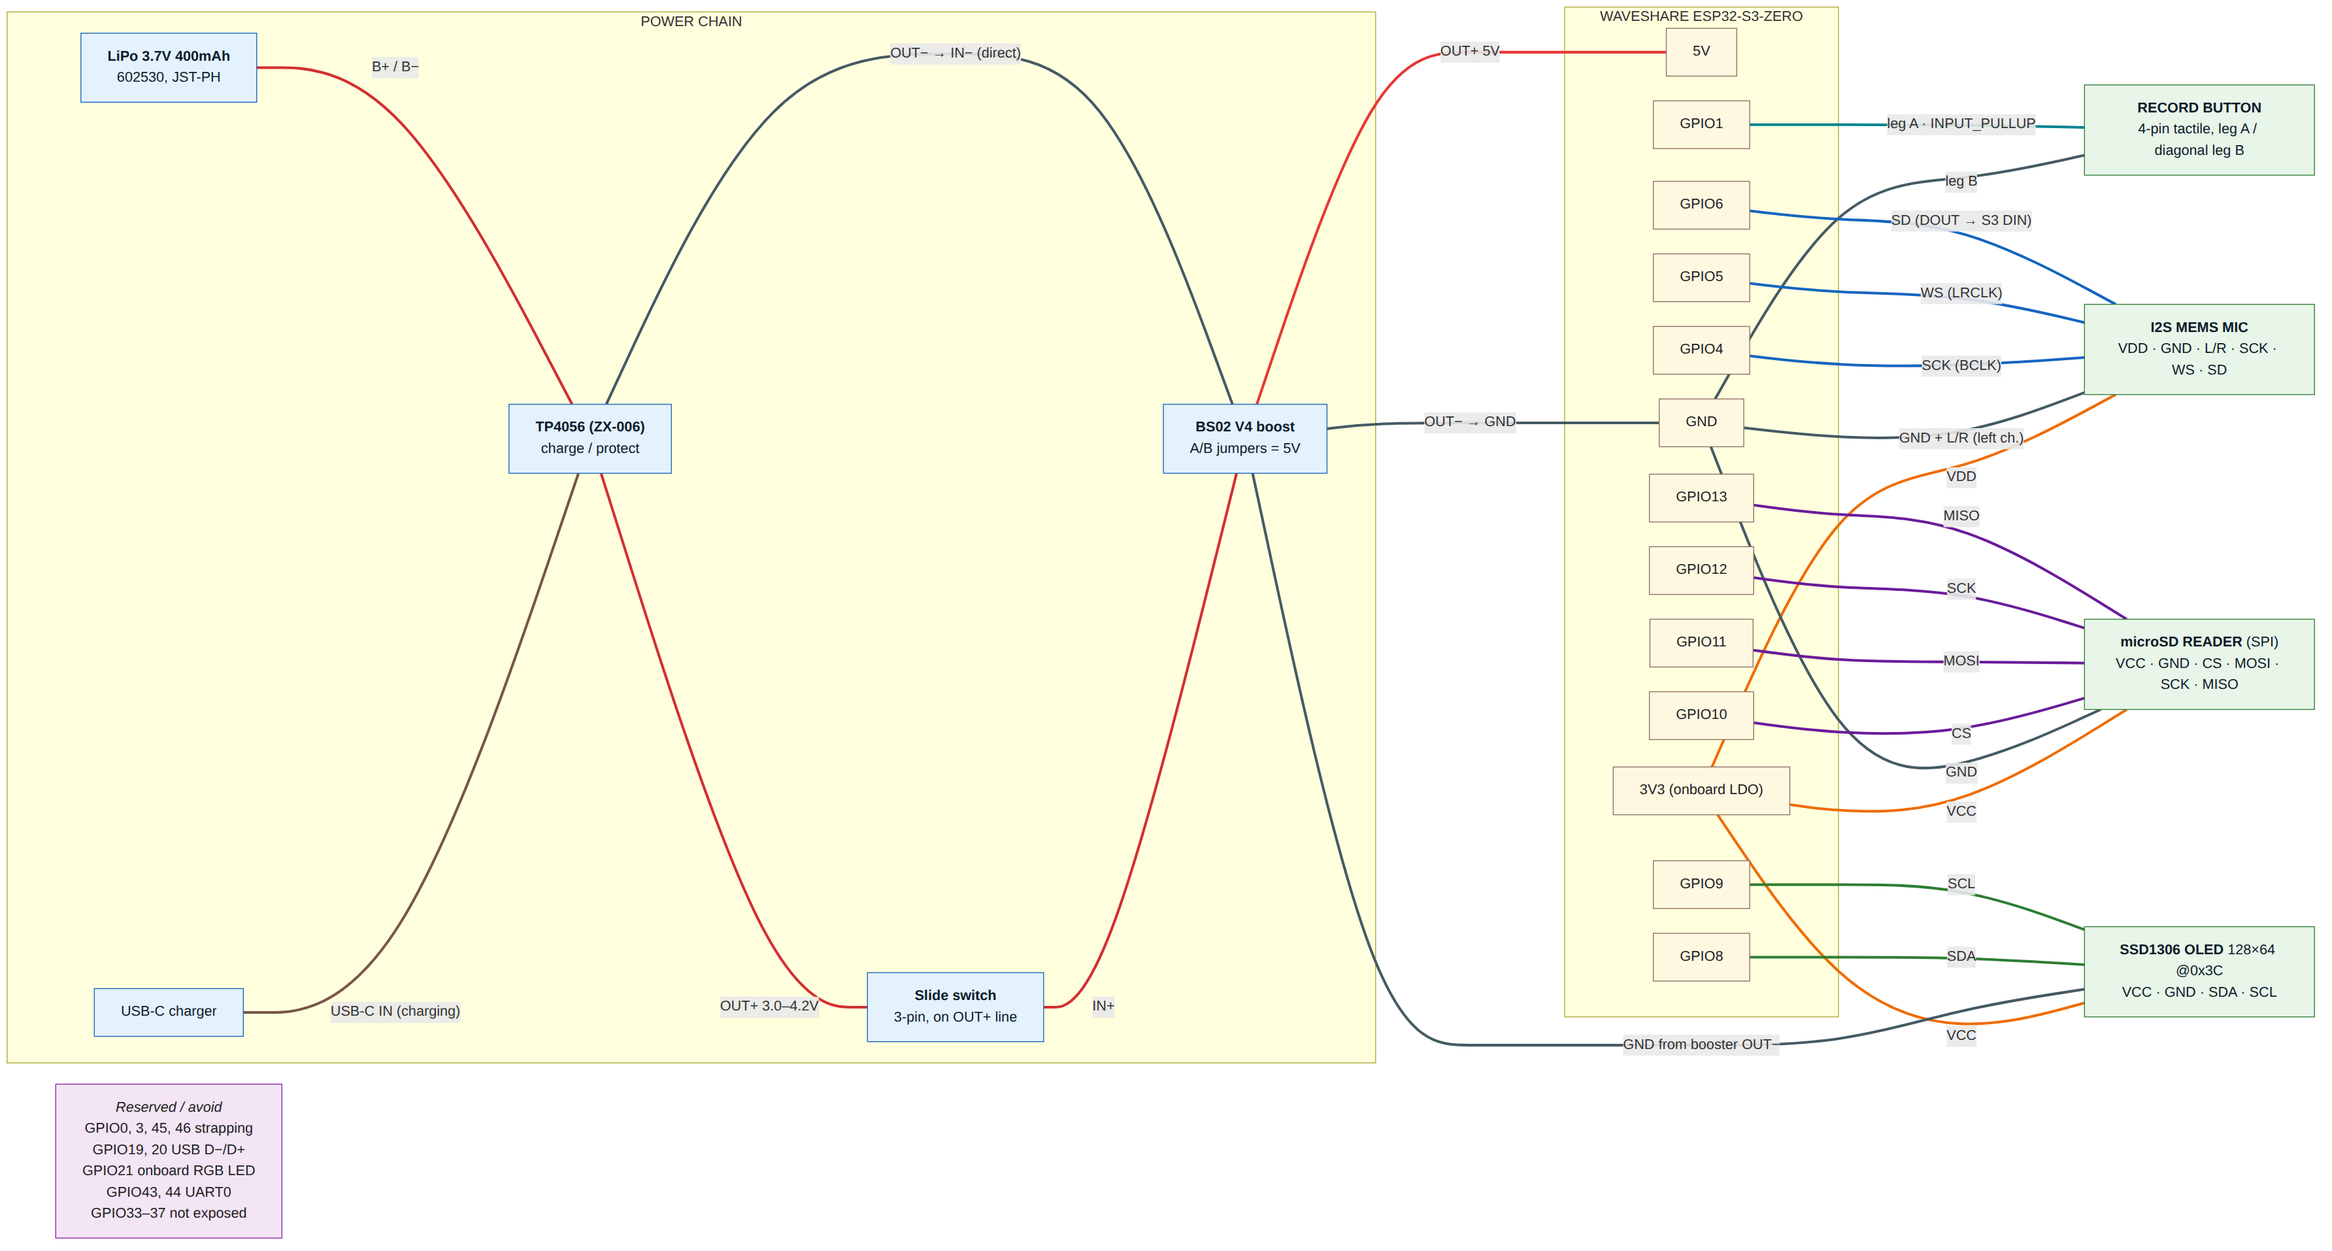
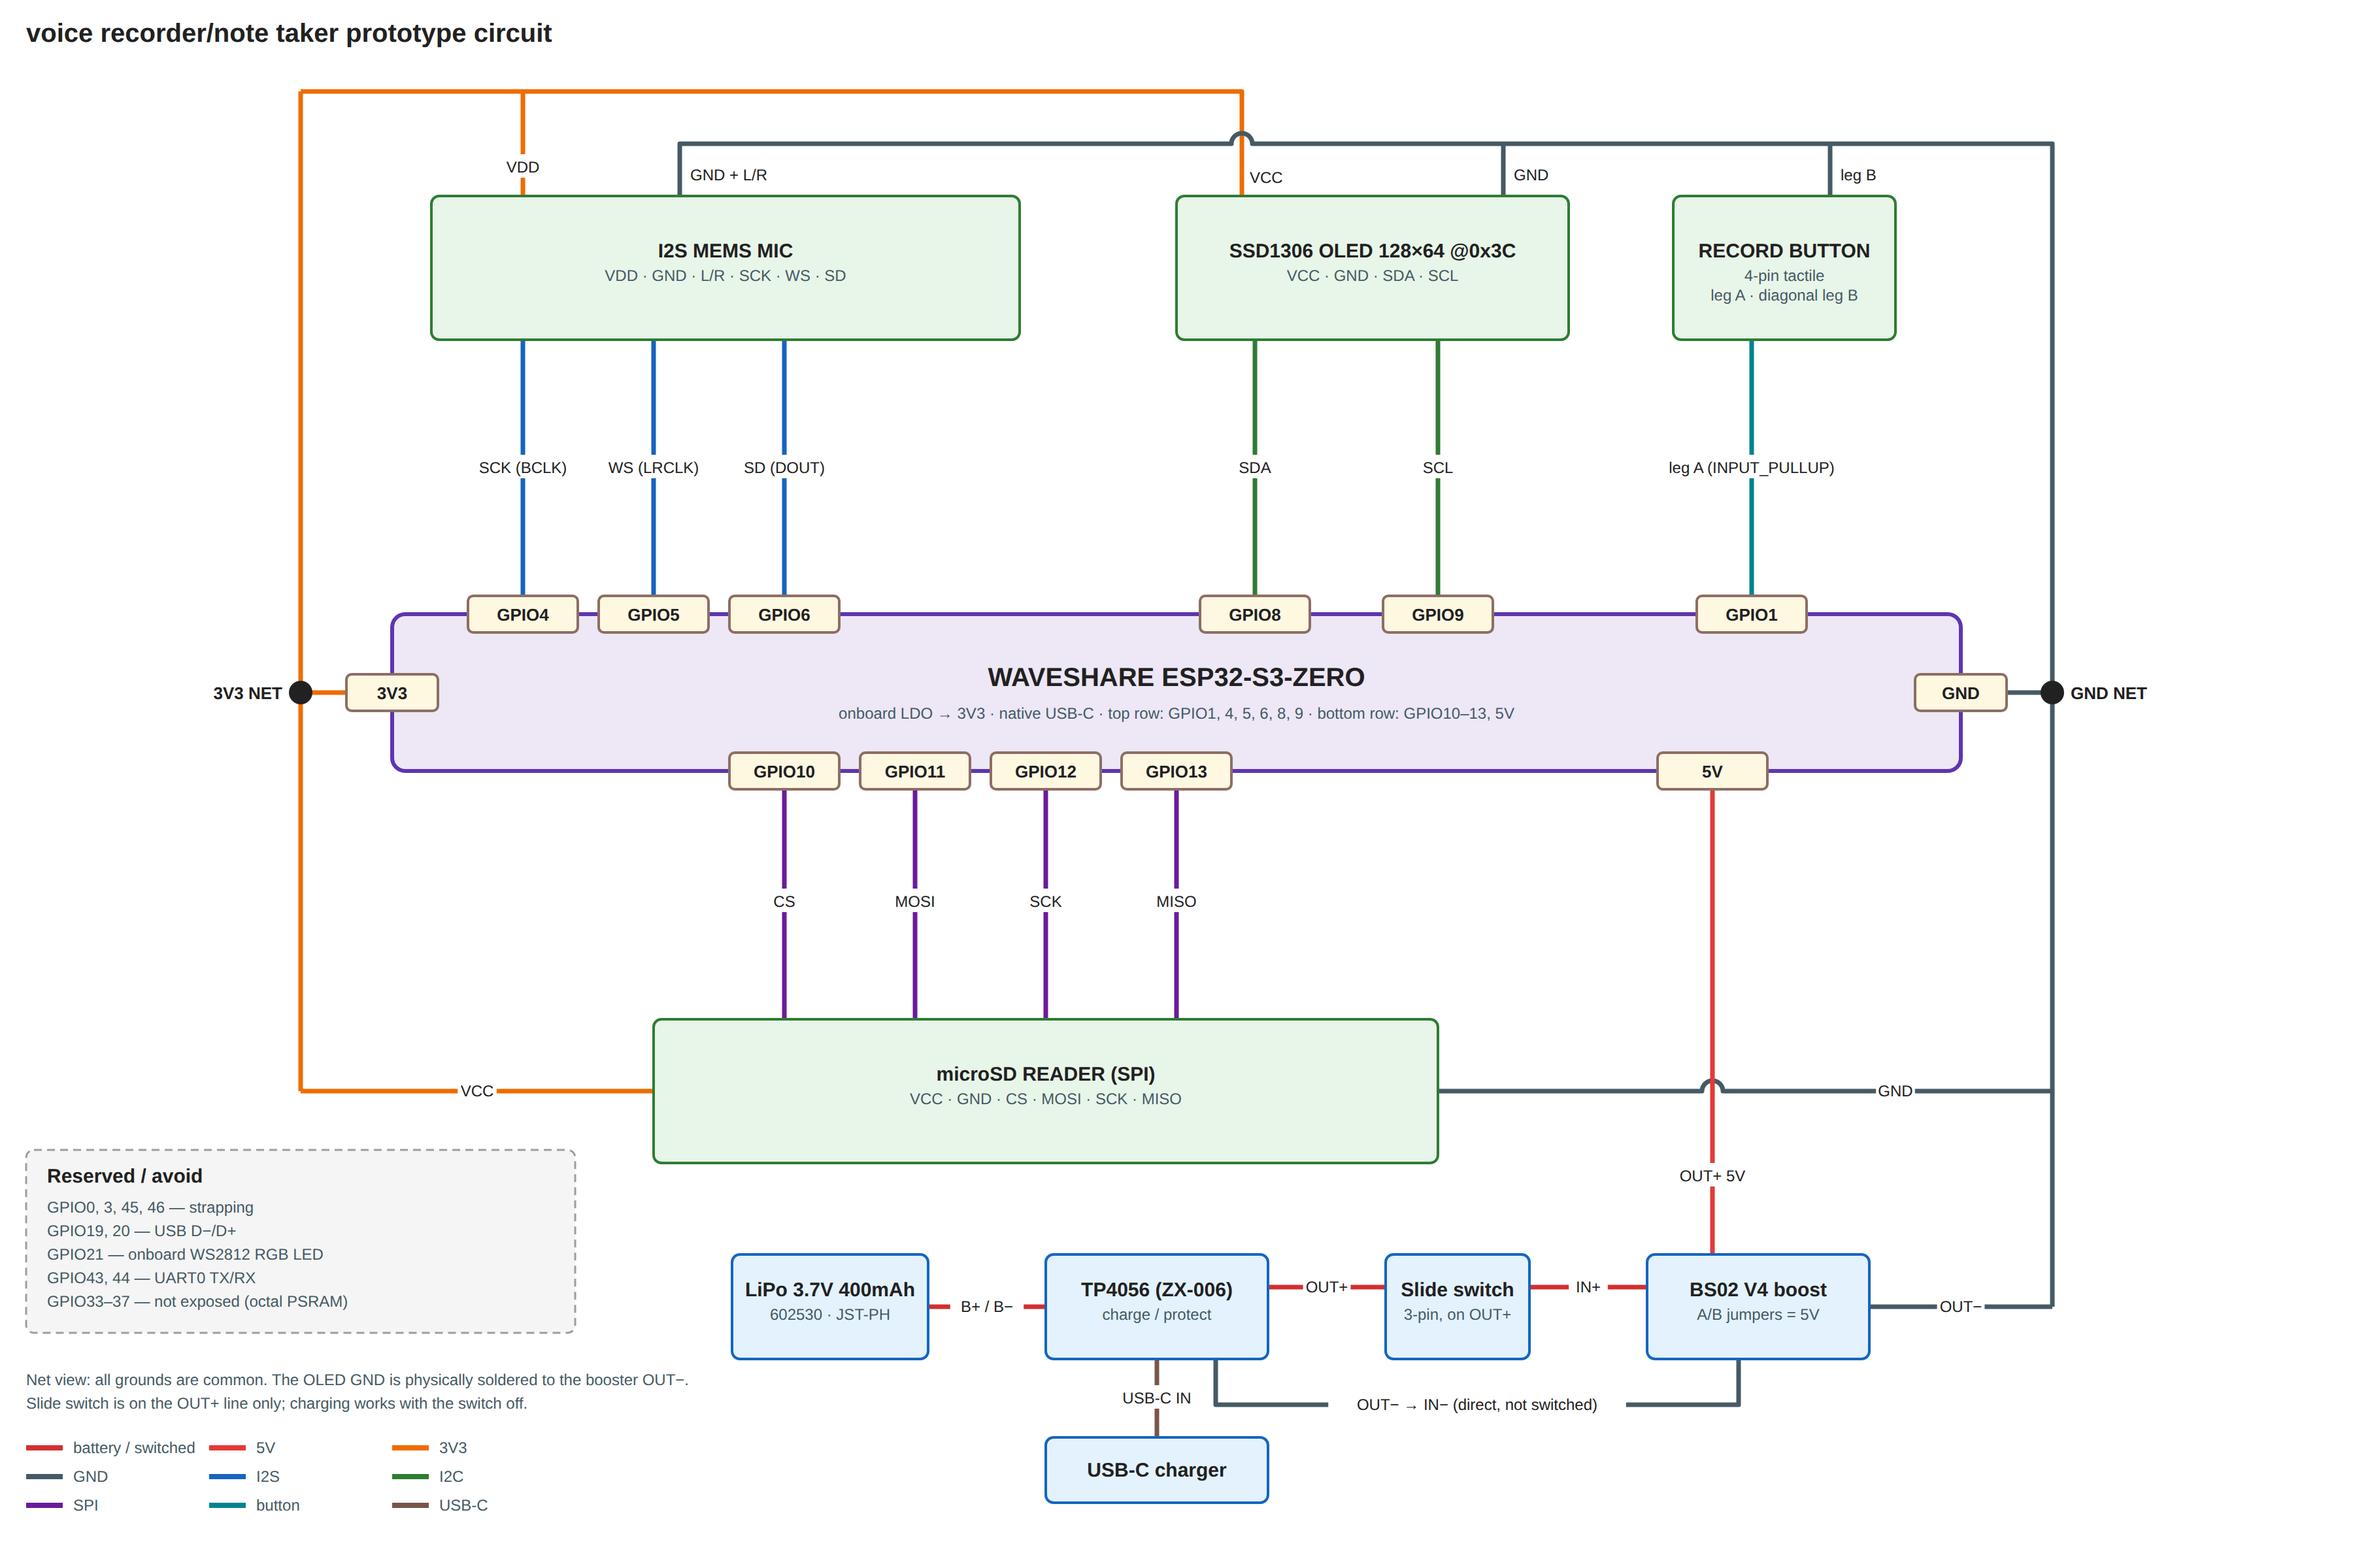
docs(hardware): redraw wiring diagram as two-row SVG
Pins on top/bottom edges, single 3V3 and GND net junctions, compact
right-angle power chain. Mermaid auto-layout could not hold the fixed
row layout, so the diagram is generated from wiring-diagram.py.

diff --git a/hardware/wiring-diagram.py b/hardware/wiring-diagram.py
@@ -1,0 +1,118 @@
+"""Renders the as-built wiring diagram to SVG on stdout (stdlib only).
+
+See wiring-diagram.md for the render-to-PNG command.
+"""
+import sys
+W, H = 1800, 1190
+COL = {"bat":"#d32f2f","v5":"#e53935","v33":"#ef6c00","gnd":"#455a64",
+       "i2s":"#1565c0","i2c":"#2e7d32","spi":"#6a1b9a","btn":"#00838f","usb":"#795548"}
+o = []
+def add(s): o.append(s)
+def wire(d, kind, label=None, lx=None, ly=None):
+    add(f'<path d="{d}" fill="none" stroke="{COL[kind]}" stroke-width="3.5" stroke-linejoin="round"/>')
+    if label:
+        w = len(label)*6.6 + 10
+        add(f'<rect x="{lx-w/2}" y="{ly-10}" width="{w}" height="18" fill="#fff"/>'
+            f'<text x="{lx}" y="{ly+4}" class="wl" text-anchor="middle">{label}</text>')
+def box(x,y,w,h,cls,title,sub=None):
+    add(f'<rect x="{x}" y="{y}" width="{w}" height="{h}" rx="6" class="{cls}"/>')
+    cy = y + h/2 + (0 if sub else 5)
+    add(f'<text x="{x+w/2}" y="{cy-(8 if sub else 0)}" class="bt" text-anchor="middle">{title}</text>')
+    if sub:
+        for i,s in enumerate(sub.split("|")):
+            add(f'<text x="{x+w/2}" y="{cy+10+i*15}" class="st" text-anchor="middle">{s}</text>')
+def pin(cx,cy,label,w=84,cls="pin"):
+    add(f'<rect x="{cx-w/2}" y="{cy-14}" width="{w}" height="28" rx="4" class="{cls}"/>'
+        f'<text x="{cx}" y="{cy+5}" class="pt" text-anchor="middle">{label}</text>')
+def dot(x,y,label,dx,dy,anchor):
+    add(f'<circle cx="{x}" cy="{y}" r="9" fill="#212121"/>'
+        f'<text x="{x+dx}" y="{y+dy}" class="nt" text-anchor="{anchor}">{label}</text>')
+
+add(f'<svg xmlns="http://www.w3.org/2000/svg" viewBox="0 0 {W} {H}" width="{W}" height="{H}">')
+add('''<style>
+text{font-family:Helvetica,Arial,sans-serif;fill:#212121}
+.bt{font-size:15px;font-weight:700}.st{font-size:12px;fill:#455a64}
+.pt{font-size:13px;font-weight:600}.wl{font-size:12px;fill:#212121}
+.nt{font-size:13px;font-weight:700}.ti{font-size:20px;font-weight:700}
+.per{fill:#e8f5e9;stroke:#2e7d32;stroke-width:2}
+.mod{fill:#e3f2fd;stroke:#1565c0;stroke-width:2}
+.mcu{fill:#ede7f6;stroke:#5e35b1;stroke-width:3}
+.pin{fill:#fff8e1;stroke:#8d6e63;stroke-width:2}
+.rsv{fill:#f5f5f5;stroke:#9e9e9e;stroke-width:1.5;stroke-dasharray:6 4}
+</style>''')
+add(f'<rect width="{W}" height="{H}" fill="#fff"/>')
+add('<text x="20" y="32" class="ti">voice recorder/note taker prototype circuit</text>')
+
+# ---- nets / buses (drawn first, under boxes)
+# 3V3: top channel y=70 -> MIC VDD x=400, OLED VCC x=950; left bus x=230
+wire("M400,150 V70 H950 V150", "v33", "VDD", 400, 128)
+add(f'<text x="950" y="140" class="wl" text-anchor="start" dx="6">VCC</text>')
+wire("M230,70 H400", "v33")
+wire("M230,70 V835", "v33")
+wire("M500,835 H230", "v33", "VCC", 365, 835)
+wire("M265,530 H230", "v33")
+# GND: channel y=110, hops over OLED VCC (x=950) ; right bus x=1570
+wire("M520,150 V110 H942 a8,8 0 0 1 16,0 H1570 V1000", "gnd")
+add('<text x="528" y="138" class="wl">GND + L/R</text>')
+wire("M1150,150 V110", "gnd"); add('<text x="1158" y="138" class="wl">GND</text>')
+wire("M1400,150 V110", "gnd"); add('<text x="1408" y="138" class="wl">leg B</text>')
+wire("M1100,835 H1302 a8,8 0 0 1 16,0 H1570", "gnd", "GND", 1450, 835)
+wire("M1535,530 H1570", "gnd")
+wire("M1430,1000 H1570", "gnd", "OUT−", 1500, 1000)
+
+# ---- signals
+wire("M400,260 V456","i2s","SCK (BCLK)",400,358)
+wire("M500,260 V456","i2s","WS (LRCLK)",500,358)
+wire("M600,260 V456","i2s","SD (DOUT)",600,358)
+wire("M960,260 V456","i2c","SDA",960,358)
+wire("M1100,260 V456","i2c","SCL",1100,358)
+wire("M1340,260 V456","btn","leg A (INPUT_PULLUP)",1340,358)
+wire("M600,604 V780","spi","CS",600,690)
+wire("M700,604 V780","spi","MOSI",700,690)
+wire("M800,604 V780","spi","SCK",800,690)
+wire("M900,604 V780","spi","MISO",900,690)
+
+# ---- power chain
+wire("M710,1000 H800","bat","B+ / B−",755,1000)
+wire("M970,985 H1060","bat","OUT+",1015,985)
+wire("M1170,985 H1260","bat","IN+",1215,985)
+wire("M930,1040 V1075 H1330 V1040","gnd","OUT− → IN− (direct, not switched)",1130,1075)
+wire("M885,1100 V1040","usb","USB-C IN",885,1070)
+wire("M1310,960 V604","v5","OUT+ 5V",1310,900)
+
+# ---- boxes
+box(330,150,450,110,"per","I2S MEMS MIC","VDD · GND · L/R · SCK · WS · SD")
+box(900,150,300,110,"per","SSD1306 OLED 128×64 @0x3C","VCC · GND · SDA · SCL")
+box(1280,150,170,110,"per","RECORD BUTTON","4-pin tactile|leg A · diagonal leg B")
+box(500,780,600,110,"per","microSD READER (SPI)","VCC · GND · CS · MOSI · SCK · MISO")
+add('<rect x="300" y="470" width="1200" height="120" rx="10" class="mcu"/>')
+add('<text x="900" y="525" class="bt" text-anchor="middle" style="font-size:20px">WAVESHARE ESP32-S3-ZERO</text>')
+add('<text x="900" y="550" class="st" text-anchor="middle">onboard LDO → 3V3 · native USB-C · top row: GPIO1, 4, 5, 6, 8, 9 · bottom row: GPIO10–13, 5V</text>')
+for x,l in [(400,"GPIO4"),(500,"GPIO5"),(600,"GPIO6"),(960,"GPIO8"),(1100,"GPIO9"),(1340,"GPIO1")]: pin(x,470,l)
+for x,l in [(600,"GPIO10"),(700,"GPIO11"),(800,"GPIO12"),(900,"GPIO13"),(1310,"5V")]: pin(x,590,l)
+pin(300,530,"3V3",70); pin(1500,530,"GND",70)
+dot(230,530,"3V3 NET",-14,5,"end")
+dot(1570,530,"GND NET",14,5,"start")
+
+box(560,960,150,80,"mod","LiPo 3.7V 400mAh","602530 · JST-PH")
+box(800,960,170,80,"mod","TP4056 (ZX-006)","charge / protect")
+box(1060,960,110,80,"mod","Slide switch","3-pin, on OUT+")
+box(1260,960,170,80,"mod","BS02 V4 boost","A/B jumpers = 5V")
+box(800,1100,170,50,"mod","USB-C charger")
+
+# reserved + notes
+add('<rect x="20" y="880" width="420" height="140" rx="6" class="rsv"/>')
+add('<text x="36" y="905" class="bt">Reserved / avoid</text>')
+for i,t in enumerate(["GPIO0, 3, 45, 46 — strapping","GPIO19, 20 — USB D−/D+","GPIO21 — onboard WS2812 RGB LED",
+                      "GPIO43, 44 — UART0 TX/RX","GPIO33–37 — not exposed (octal PSRAM)"]):
+    add(f'<text x="36" y="{928+i*18}" class="st">{t}</text>')
+add('<text x="20" y="1060" class="st">Net view: all grounds are common. The OLED GND is physically soldered to the booster OUT−.</text>')
+add('<text x="20" y="1078" class="st">Slide switch is on the OUT+ line only; charging works with the switch off.</text>')
+# legend
+lx, ly = 20, 1108
+for i,(k,t) in enumerate([("bat","battery / switched"),("v5","5V"),("v33","3V3"),("gnd","GND"),("i2s","I2S"),("i2c","I2C"),("spi","SPI"),("btn","button"),("usb","USB-C")]):
+    x = lx + (i%3)*140; y = ly + (i//3)*22
+    add(f'<line x1="{x}" y1="{y}" x2="{x+28}" y2="{y}" stroke="{COL[k]}" stroke-width="4"/>'
+        f'<text x="{x+36}" y="{y+4}" class="st">{t}</text>')
+add('</svg>')
+sys.stdout.write("\n".join(o))

diff --git a/hardware/wiring-diagram.md b/hardware/wiring-diagram.md
@@ -6,106 +6,18 @@ fix both.
 
 ![Wiring diagram](wiring-diagram.png)
 
-Line colours: red = battery / 5V, orange = 3V3, grey = GND, blue = I2S, green = I2C,
-purple = SPI, teal = button, brown = USB-C charge input.
+Line colours: red = battery / switched / 5V, orange = 3V3, grey = GND, blue = I2S,
+green = I2C, purple = SPI, teal = button, brown = USB-C charge input.
 
 ## Source
 
-The Mermaid below is the source of truth; the PNG is rendered from it.
-
-```mermaid
-%%{init: {"flowchart": {"nodeSpacing": 28, "rankSpacing": 110, "curve": "basis"}}}%%
-flowchart LR
-  subgraph PWR["POWER CHAIN"]
-    direction TB
-    USB["USB-C charger"]
-    TP["<b>TP4056 (ZX-006)</b><br/>charge / protect"]
-    BAT["<b>LiPo 3.7V 400mAh</b><br/>602530, JST-PH"]
-    SW["<b>Slide switch</b><br/>3-pin, on OUT+ line"]
-    BO["<b>BS02 V4 boost</b><br/>A/B jumpers = 5V"]
-  end
-  subgraph MCU["WAVESHARE ESP32-S3-ZERO"]
-    direction TB
-    V5["5V"]
-    GND["GND"]
-    V33["3V3 (onboard LDO)"]
-    G1["GPIO1"]
-    G4["GPIO4"]
-    G5["GPIO5"]
-    G6["GPIO6"]
-    G8["GPIO8"]
-    G9["GPIO9"]
-    G10["GPIO10"]
-    G11["GPIO11"]
-    G12["GPIO12"]
-    G13["GPIO13"]
-  end
-  RSV["<i>Reserved / avoid</i><br/>GPIO0, 3, 45, 46 strapping<br/>GPIO19, 20 USB D−/D+<br/>GPIO21 onboard RGB LED<br/>GPIO43, 44 UART0<br/>GPIO33–37 not exposed"]
-  MIC["<b>I2S MEMS MIC</b><br/>VDD · GND · L/R · SCK · WS · SD"]
-  OLED["<b>SSD1306 OLED</b> 128×64 @0x3C<br/>VCC · GND · SDA · SCL"]
-  SDR["<b>microSD READER</b> (SPI)<br/>VCC · GND · CS · MOSI · SCK · MISO"]
-  BTN["<b>RECORD BUTTON</b><br/>4-pin tactile, leg A / diagonal leg B"]
-  USB ---|"USB-C IN (charging)"| TP
-  BAT ---|"B+ / B−"| TP
-  TP ---|"OUT+ 3.0–4.2V"| SW
-  SW ---|"IN+"| BO
-  TP ---|"OUT− → IN− (direct)"| BO
-  BO ---|"OUT+ 5V"| V5
-  BO ---|"OUT− → GND"| GND
-  V33 ---|"VDD"| MIC
-  V33 ---|"VCC"| OLED
-  V33 ---|"VCC"| SDR
-  GND ---|"GND + L/R (left ch.)"| MIC
-  BO ---|"GND from booster OUT−"| OLED
-  GND ---|"GND"| SDR
-  GND ---|"leg B"| BTN
-  G1 ---|"leg A · INPUT_PULLUP"| BTN
-  G4 ---|"SCK (BCLK)"| MIC
-  G5 ---|"WS (LRCLK)"| MIC
-  G6 ---|"SD (DOUT → S3 DIN)"| MIC
-  G8 ---|"SDA"| OLED
-  G9 ---|"SCL"| OLED
-  G10 ---|"CS"| SDR
-  G11 ---|"MOSI"| SDR
-  G12 ---|"SCK"| SDR
-  G13 ---|"MISO"| SDR
-  linkStyle 0 stroke:#795548,stroke-width:3px
-  linkStyle 1 stroke:#d32f2f,stroke-width:3px
-  linkStyle 2 stroke:#d32f2f,stroke-width:3px
-  linkStyle 3 stroke:#d32f2f,stroke-width:3px
-  linkStyle 4 stroke:#455a64,stroke-width:3px
-  linkStyle 5 stroke:#e53935,stroke-width:3px
-  linkStyle 6 stroke:#455a64,stroke-width:3px
-  linkStyle 7 stroke:#ef6c00,stroke-width:3px
-  linkStyle 8 stroke:#ef6c00,stroke-width:3px
-  linkStyle 9 stroke:#ef6c00,stroke-width:3px
-  linkStyle 10 stroke:#455a64,stroke-width:3px
-  linkStyle 11 stroke:#455a64,stroke-width:3px
-  linkStyle 12 stroke:#455a64,stroke-width:3px
-  linkStyle 13 stroke:#455a64,stroke-width:3px
-  linkStyle 14 stroke:#00838f,stroke-width:3px
-  linkStyle 15 stroke:#1565c0,stroke-width:3px
-  linkStyle 16 stroke:#1565c0,stroke-width:3px
-  linkStyle 17 stroke:#1565c0,stroke-width:3px
-  linkStyle 18 stroke:#2e7d32,stroke-width:3px
-  linkStyle 19 stroke:#2e7d32,stroke-width:3px
-  linkStyle 20 stroke:#6a1b9a,stroke-width:3px
-  linkStyle 21 stroke:#6a1b9a,stroke-width:3px
-  linkStyle 22 stroke:#6a1b9a,stroke-width:3px
-  linkStyle 23 stroke:#6a1b9a,stroke-width:3px
-  classDef pin fill:#fff8e1,stroke:#8d6e63,color:#212121
-  classDef mod fill:#e3f2fd,stroke:#1565c0,color:#0d1b2a
-  classDef per fill:#e8f5e9,stroke:#2e7d32,color:#0d1b2a
-  classDef note fill:#f3e5f5,stroke:#8e24aa,color:#212121
-  class V5,V33,GND,G1,G4,G5,G6,G8,G9,G10,G11,G12,G13 pin
-  class USB,TP,BAT,SW,BO mod
-  class MIC,OLED,SDR,BTN per
-  class RSV note
-```
-
-Re-render after editing (needs `@mermaid-js/mermaid-cli`):
+Hand-laid-out SVG, not Mermaid: Mermaid's auto-layout can't hold the fixed two-row pin
+arrangement with right-angle routing. [wiring-diagram.py](wiring-diagram.py) (stdlib only)
+generates [wiring-diagram.svg](wiring-diagram.svg); the PNG is a headless-Chrome render of
+the SVG. Edit the script, then:
 
 ```sh
-awk '/^```mermaid/{f=1;next} /^```/{f=0} f' wiring-diagram.md > /tmp/wiring.mmd
-mmdc -i /tmp/wiring.mmd -o wiring-diagram.png -s 2 -w 1800 -b white
+python3 wiring-diagram.py > wiring-diagram.svg
+google-chrome --headless=new --no-sandbox --hide-scrollbars --force-device-scale-factor=2 \
+  --window-size=1800,1190 --screenshot=wiring-diagram.png "file://$PWD/wiring-diagram.svg"
 ```

diff --git a/hardware/README.md b/hardware/README.md
@@ -5,7 +5,7 @@ record button, and a TP4056 → boost → LiPo power chain.
 
 - [bom.md](bom.md) — bill of materials (parts, quantities, status)
 - [pinout.md](pinout.md) — wiring and GPIO assignments (the wiring contract)
-- [wiring-diagram.md](wiring-diagram.md) — full as-built connection diagram (Mermaid + PNG)
+- [wiring-diagram.md](wiring-diagram.md) — full as-built connection diagram (SVG + PNG)
 - [enclosure/](enclosure/) — 3D-printed case CAD sources and STLs
 
 See [../docs/roadmap.md](../docs/roadmap.md) for hardware bring-up status and blockers.
